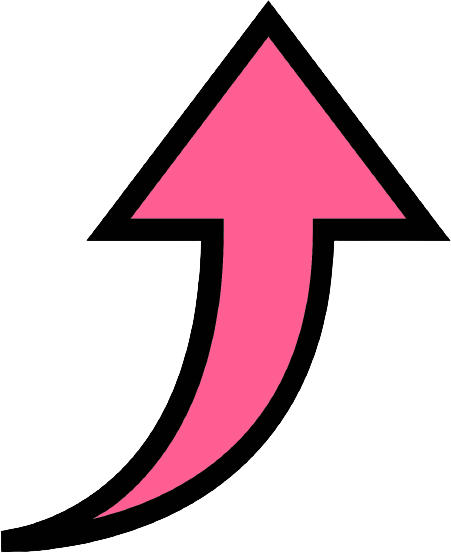
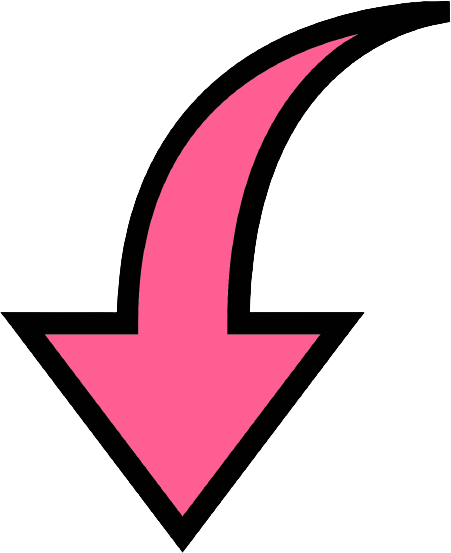
add ios inapp

diff --git a/src/components/InApp/check-browser.js b/src/components/InApp/check-browser.js
@@ -2,6 +2,8 @@ import React, { useState, useEffect } from 'react';
 import styled from 'styled-components';
 import OpenBrowserHint from '@assets/open_browser.jpg'
 import Arrow from '@assets/arrow.png'
+import IosOpenBrowserHint from '@assets/open_browser_IOS.jpg'
+import BottomArrow from '@assets/bottom_arrow.png'
 import InApp from '../../utils/inapp';
 
 export const Overlay = styled.div`
@@ -23,10 +25,31 @@ export const H2Center = styled.h2`
   color: white;
 `;
 
+export const H2CenterBottom = styled.h2`
+  width: 100%;
+  margin-top: 60%;
+  text-align: center;
+  color: white;
+`;
+
 export const FullWidthImg = styled.img`
   width: 80%;
   margin: auto;
   margin-top: 15%;
+  display:block;
+`;
+
+export const Bottom = styled.div`
+  display: flex;
+  justify-content: flex-start;
+  flex-direction: column-reverse;
+  height: 100%;
+`;
+
+export const FullWidthBottomImg = styled.img`
+  width: 80%;
+  margin: auto;
+  margin-bottom: 15%;
   display:block;
 `;
 
@@ -39,6 +62,17 @@ export const TopImg = styled.img`
   top: 0px;
   margin-right: 3%;
   margin-top: 10px;
+`;
+
+export const BottomImg = styled.img`
+  width: 10%;
+  display:block;
+  position: absolute;
+  height: auto;
+  right: 0px;
+  bottom: 0px;
+  margin-right: 3%;
+  margin-bottom: 10px;
 `;
 
 const CheckBrowser = () => {
@@ -55,9 +89,20 @@ const CheckBrowser = () => {
     <>
       {inapp?.isInApp &&
         <Overlay style={loaded && loadedArrow ? {} : { display: 'none' }}>
-          <TopImg src={Arrow} onLoad={() => setLoaded(true)} />
-          <FullWidthImg src={OpenBrowserHint} onLoad={() => setLoadedArrow(true)} />
-          <H2Center>Open browser to continue...</H2Center>
+          {!inapp?.isIOS &&
+            <>
+              <TopImg src={Arrow} onLoad={() => setLoadedArrow(true)} />
+              <FullWidthImg src={OpenBrowserHint} onLoad={() => setLoaded(true)} />
+              <H2Center>Open browser to continue...</H2Center>
+            </>
+          }
+          {inapp?.isIOS &&
+            <Bottom>
+              <FullWidthBottomImg src={IosOpenBrowserHint} onLoad={() => setLoaded(true)} />
+              <H2CenterBottom>Open browser to continue...</H2CenterBottom>
+              <BottomImg src={BottomArrow} onLoad={() => setLoadedArrow(true)} />
+            </Bottom>
+          }
         </Overlay>
       }
     </>
